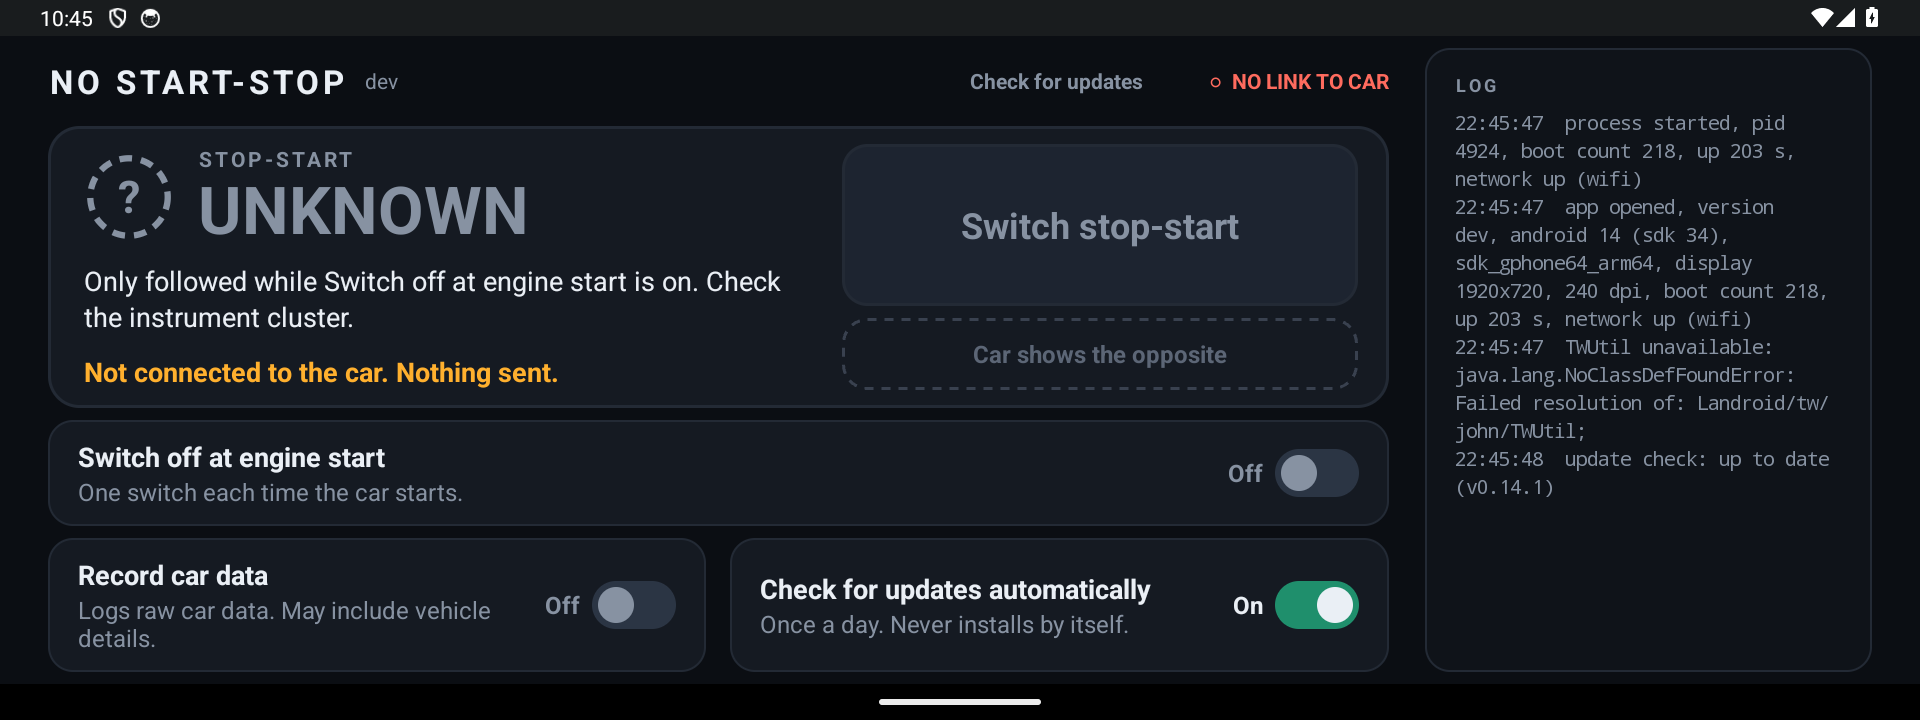
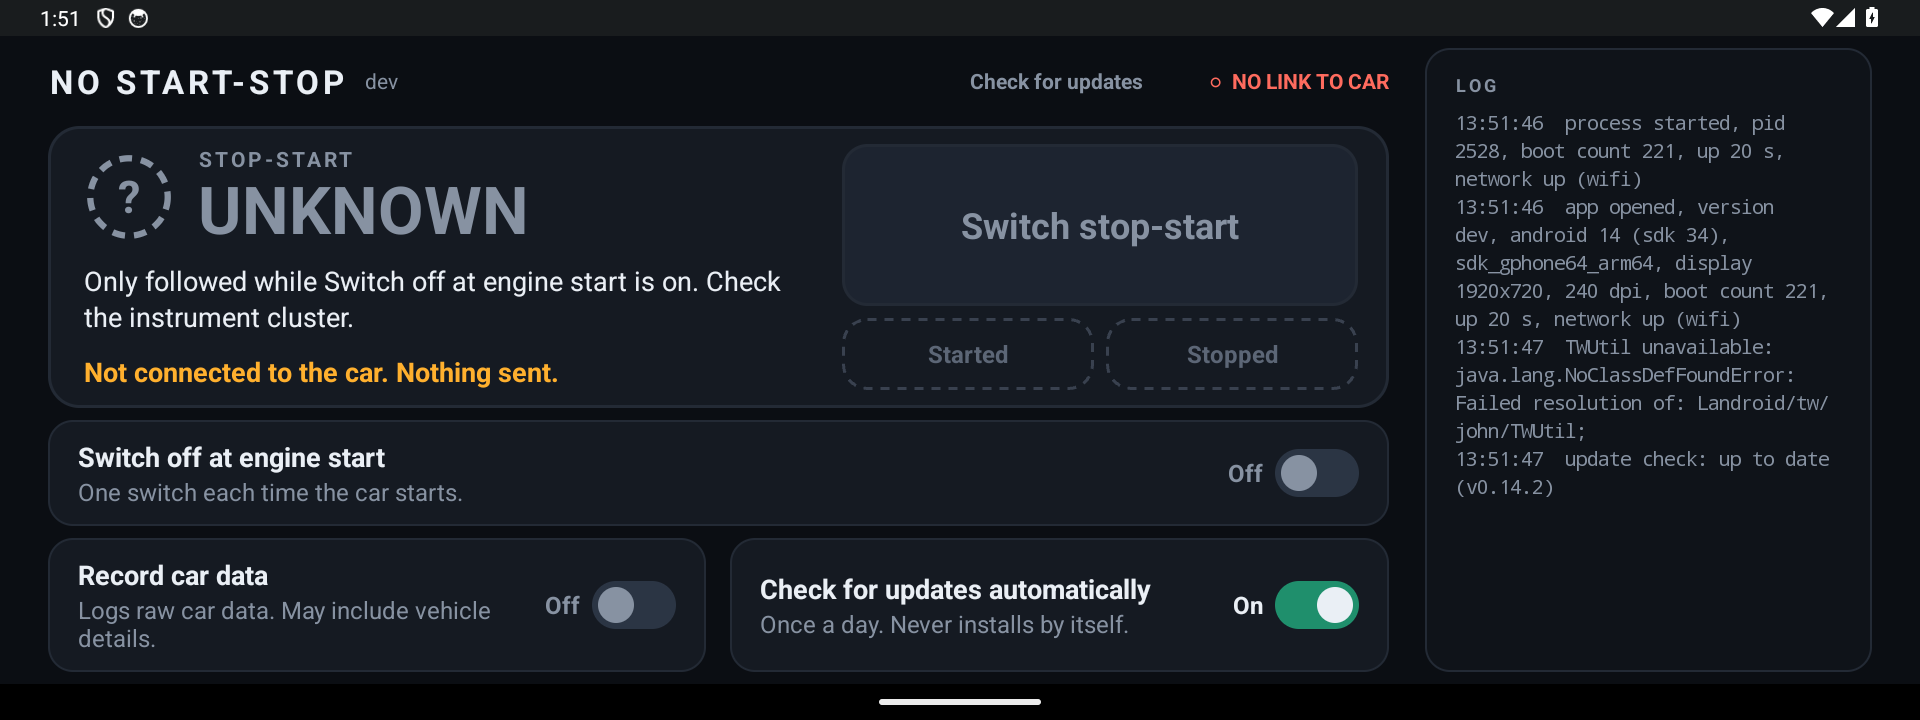
Retake the no-link screenshot and add set-by-hand and split-screen ones

diff --git a/README.md b/README.md
@@ -30,6 +30,14 @@ The screenshots are from an emulator at 1920x720 with a simulated CAN box: the m
 
 ![No link to the car](docs/unreachable.png)
 
+While the state is unknown, **Started** and **Stopped** set it by hand from what the instrument cluster shows:
+
+![Unknown state with the Started and Stopped buttons](docs/set-by-hand.png)
+
+In split screen the same screen is one scrolling column, here after a tap on **Stopped**:
+
+![Split screen: one column](docs/split.png)
+
 ## What it does
 
 - **Switch stop-start**: one button that sends one switch command to the car. The command is a toggle: each tap turns stop-start off if it was on, and on if it was off.
